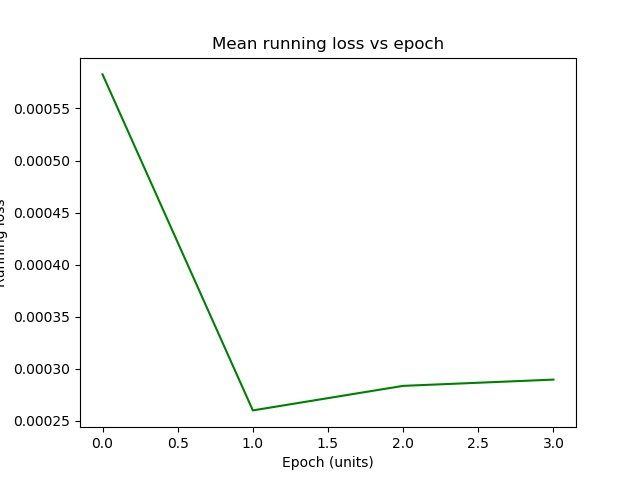
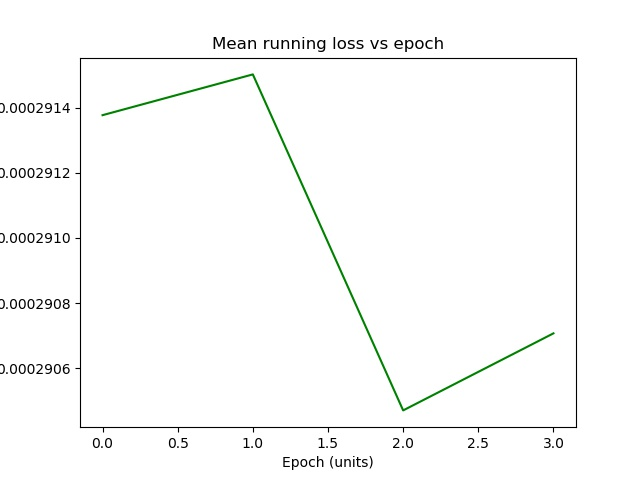
Added some new lines to include batch size, number of layers, a routine to apply a Moving Average to the deformations to reduce noise in data

diff --git a/LSTM_Test/lstm_test_prediction_2.py b/LSTM_Test/lstm_test_prediction_2.py
@@ -7,20 +7,30 @@ import matplotlib.pyplot as plt
 import datetime as dt
 from tqdm import tqdm
 
-# Hyperparameters
-learning_rate = 0.001
-epochs = 4#20#150#2#10#150
+# Moving average
+def smooth(data, N_avg):
+    def mov_avg(x, N):
+        cumsum = np.cumsum(np.insert(x, 0, 0))
+        return (cumsum[N:] - cumsum[:-N]) / float(N)
+    return mov_avg(data, N_avg)
 
+# Hyperparameters
+learning_rate = 0.1#0.001
+epochs = 4#10#20#150#2#10#150
+
+batch_size = 1
 input_size = 1
-hidden_layer_size = 100#100
+num_layers = 10
+hidden_layer_size = 1#100
 output_size = 1
 
-test_data_size = 100#1000#12#100  # 1 refers to -1 index of dataset, ie.,
+test_data_size = 12#1000#12#100  # 1 refers to -1 index of dataset, ie.,
                          # whole dataset is training
 
-train_window = 8000#100#1000#12  # Ventanas de tiempo usadas para crear las secuencias
+train_window = 12#100#1000#12  # Ventanas de tiempo usadas para crear las secuencias
 
-fut_pred = 100#1000#100#12
+                               # 12 datos equivalen a 1 hora
+fut_pred = 12#1000#100#12
 
 
 # Get flight dataset from seaborn
@@ -41,6 +51,12 @@ try:
 except:
     times = np.array(data['times'])
 defs = np.array(data['defs'])
+
+N_avg = 2#5#2  # 2 para hacer una linea recta (tendencia) y al menos
+               # 5 puntos para tendencia valida (entonces con N_avg=2
+               # se logran 2-3 smooth ptos por cada 5)
+times = smooth(times, N_avg)
+defs = smooth(defs, N_avg)
 
 ### Data processing
 
@@ -95,11 +111,11 @@ train_inout_seq = create_inout_sequences(train_data_normalized, train_window)
 
 class LSTM(nn.Module):
     def __init__(self, input_size=input_size, hidden_layer_size=hidden_layer_size,
-                 output_size=output_size):
+                 output_size=output_size, num_layers=num_layers):
         super().__init__()
         self.hidden_layer_size = hidden_layer_size
 
-        self.lstm = nn.LSTM(input_size, hidden_layer_size)
+        self.lstm = nn.LSTM(input_size, hidden_layer_size, num_layers)
 
         self.linear = nn.Linear(hidden_layer_size, output_size)
 
@@ -140,8 +156,8 @@ for i in tqdm(range(epochs), total=epochs):
         seq, labels = seq.to(device), labels.to(device)
 
         optimizer.zero_grad()
-        model.hidden_cell = (torch.zeros(1, 1, model.hidden_layer_size).to(device),
-                             torch.zeros(1, 1, model.hidden_layer_size).to(device))
+        model.hidden_cell = (torch.zeros(num_layers, batch_size, model.hidden_layer_size).to(device),
+                             torch.zeros(num_layers, batch_size, model.hidden_layer_size).to(device))
 
         y_pred = model(seq)
 
